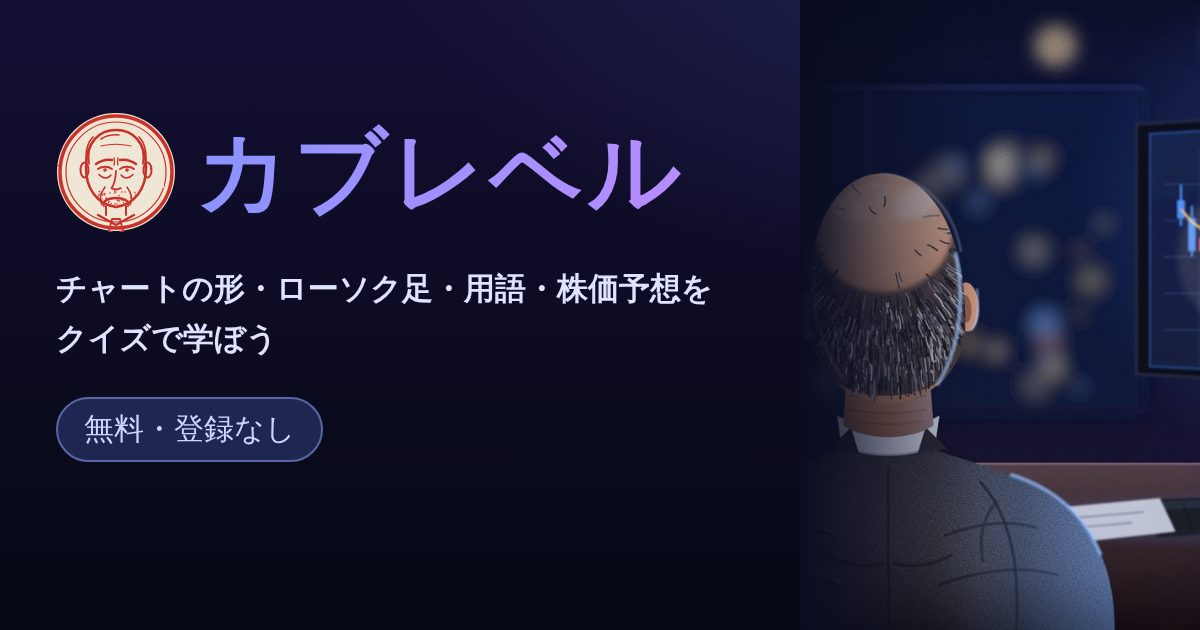
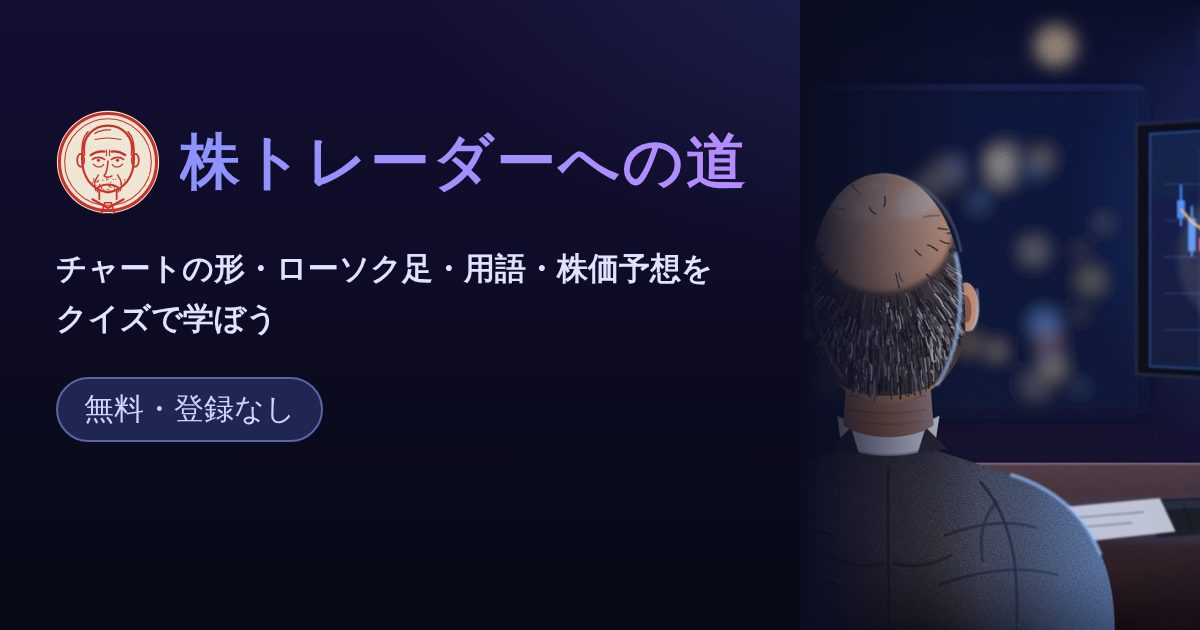
株クイズの名前を「株トレーダーへの道」に変更(タイトル・見出し・共有文・共有画像・文書) (#40)
Claude-Session: https://claude.ai/code/session_01UZZPSuHmNvhWQcyexNuVhm

Changed region(s): [[0.0308, 0.3921, 0.5858, 0.754], [0.0308, 0.181, 0.6167, 0.3921]]

diff --git a/stock-quiz/index.html b/stock-quiz/index.html
@@ -3,11 +3,11 @@
 <head>
 <meta charset="utf-8">
 <meta name="viewport" content="width=device-width, initial-scale=1">
-<title>カブレベル</title>
+<title>株トレーダーへの道</title>
 <meta name="description" content="チャートの形・ローソク足・用語・株価予想を、クイズで学べる無料の株クイズ。登録なしで、スマホからすぐ遊べるよ。">
 <meta property="og:type" content="website">
-<meta property="og:site_name" content="カブレベル">
-<meta property="og:title" content="カブレベル ― 株クイズ">
+<meta property="og:site_name" content="株トレーダーへの道">
+<meta property="og:title" content="株トレーダーへの道 ― 株クイズ">
 <meta property="og:description" content="チャートの形・ローソク足・用語・株価予想を、クイズで学ぼう。無料・登録なし。">
 <meta property="og:url" content="https://rikyui90-lab.github.io/research/stock-quiz/">
 <meta property="og:image" content="https://rikyui90-lab.github.io/research/stock-quiz/images/og.jpg">
@@ -218,13 +218,13 @@ html[data-role="host"], html[data-role="host"] body { height: 100%; overflow: hi
 <div id="host" class="host">
   <header class="host-bar">
     <button id="menu-btn" aria-expanded="false" aria-controls="nav-frame"><span aria-hidden="true">☰</span> メニュー</button>
-    <span class="host-title">カブレベル</span>
+    <span class="host-title">株トレーダーへの道</span>
   </header>
   <iframe id="nav-frame" title="メニュー(難易度・モード・問題の一覧)"></iframe>
   <div id="host-scrim" aria-hidden="true"></div>
-  <iframe id="main-frame" title="カブレベル(クイズ本体)"></iframe>
+  <iframe id="main-frame" title="株トレーダーへの道(クイズ本体)"></iframe>
 </div>
-<nav id="navroot" class="navroot" aria-label="カブレベルのメニュー"></nav>
+<nav id="navroot" class="navroot" aria-label="株トレーダーへの道のメニュー"></nav>
 <main id="app"></main>
 <footer class="disclaimer">学習用のゲームです。実際の相場では必ずこの通りに動くとは限りません。投資の助言ではありません。</footer>
 <script>
@@ -3661,14 +3661,14 @@ const SHARE_URL = 'https://rikyui90-lab.github.io/research/stock-quiz/';
 function buildShareLinks(text, url = SHARE_URL) {
   const u = encodeURIComponent(url);
   return {
-    x: `https://twitter.com/intent/tweet?text=${encodeURIComponent(`${text} #カブレベル`)}&url=${u}`,
+    x: `https://twitter.com/intent/tweet?text=${encodeURIComponent(`${text} #株トレーダーへの道`)}&url=${u}`,
     line: `https://social-plugins.line.me/lineit/share?url=${u}&text=${encodeURIComponent(text)}`,
   };
 }
 
 function formatShareText(mode, correct, total, difficulty = 'all') {
   const label = difficulty === 'all' ? MODE_LABELS[mode] : `${MODE_LABELS[mode]}・${DIFFICULTY_LABELS[difficulty]}`;
-  return `カブレベル(${label})で ${total}問中${correct}問正解!`;
+  return `株トレーダーへの道(${label})で ${total}問中${correct}問正解!`;
 }
 
 // ---- 前回出た問題を避ける ----
@@ -4312,7 +4312,7 @@ function showStart() {
     <div class="choices">${rows}
       <button class="choice" data-action="stats">成績を見る<small>モード別の正答率と、最近のラウンド</small></button>
     </div>`;
-  app.innerHTML = `<h1 class="title"><img class="stamp" src="images/stamp.svg" width="68" height="68" alt=""><span>カブレベル</span></h1>
+  app.innerHTML = `<h1 class="title"><img class="stamp" src="images/stamp.svg" width="68" height="68" alt=""><span>株トレーダーへの道</span></h1>
     <p class="lead">チャートの形、ローソク足、用語${FORECAST_PUBLIC ? '、株価予想' : ''}をクイズで学ぼう。1回 ${ROUND_SIZE} 問だよ(難易度で絞ると、少なくなることがあるよ)。</p>
     <figure class="hero"><img src="images/salaryman.jpg" width="1120" height="747" alt="疲れ切った50歳くらいのサラリーマンを後ろから見た絵。モニターの下がっていく株価チャートを見つめている"></figure>
     ${controls}`;
@@ -4711,7 +4711,7 @@ function runNav() {
   app.remove();
   const root = document.getElementById('navroot');
   if (!inFrame) {
-    root.append(el('p', { class: 'note' }, 'これは、カブレベルの左のメニューだよ。カブレベルのトップページから開いてね。'));
+    root.append(el('p', { class: 'note' }, 'これは、株トレーダーへの道の左のメニューだよ。株トレーダーへの道のトップページから開いてね。'));
     return;
   }
   root.append(el('p', { class: 'note' }, '読み込み中…'));

diff --git a/stock-quiz/tests/logic.test.js b/stock-quiz/tests/logic.test.js
@@ -1550,7 +1550,7 @@ test('保存データ: 値動き予想(outlook)の古いキーが残っていて
 });
 
 test('formatShareText: 難易度つき', () => {
-  assert.equal(L.formatShareText('pattern', 7, 10), 'カブレベル(チャートの形状)で 10問中7問正解!');
+  assert.equal(L.formatShareText('pattern', 7, 10), '株トレーダーへの道(チャートの形状)で 10問中7問正解!');
   const t = L.formatShareText('pattern', 7, 10, 'normal');
   assert.ok(t.includes('チャートの形状') && t.includes('★★') && t.includes('7') && t.includes('10'));
   assert.ok(!L.formatShareText('pattern', 3, 6, 'hard').includes('すべて'));
@@ -1561,7 +1561,7 @@ test('buildShareLinks: XとLINEの共有リンクに、文とURLが入る(記号
   const links = L.buildShareLinks(text);
   const xu = new URL(links.x);
   assert.equal(xu.origin + xu.pathname, 'https://twitter.com/intent/tweet');
-  assert.equal(xu.searchParams.get('text'), `${text} #カブレベル`);
+  assert.equal(xu.searchParams.get('text'), `${text} #株トレーダーへの道`);
   assert.equal(xu.searchParams.get('url'), L.SHARE_URL);
   const lu = new URL(links.line);
   assert.equal(lu.origin, 'https://social-plugins.line.me');
@@ -3203,7 +3203,7 @@ test('株価予想: プール・出題・難易度の絞り込み・全部まぜ
     assert.deepEqual(LF.buildDeck(mode, 11), L.buildDeck(mode, 11), mode);
   }
   assert.equal(LF.statsKey('forecast', 'hard'), 'forecast:hard');
-  assert.equal(LF.formatShareText('forecast', 1, 1, 'normal'), 'カブレベル(株価予想・★★)で 1問中1問正解!');
+  assert.equal(LF.formatShareText('forecast', 1, 1, 'normal'), '株トレーダーへの道(株価予想・★★)で 1問中1問正解!');
   assert.deepEqual(LF.updateStats(LF.defaultStats(), 'forecast:normal', 1, 1).played['forecast:normal'], { correct: 1, total: 1 });
 });
 

diff --git a/docs/superpowers/specs/2026-10-06-stock-quiz-design.md b/docs/superpowers/specs/2026-10-06-stock-quiz-design.md
@@ -55,7 +55,7 @@
    - 画面には「やり直し 問題 n / N」と表示する
    - やり直しのラウンドは、最高スコアにも正答率にも入れない。結果画面には、そのことを注記する
    - やり直しの結果でまだ間違えた問題があれば、「まだ間違えた問題をやり直す」で何度でも繰り返せる
-   - 結果画面には、「Xで結果を共有する」「LINEで結果を共有する」のリンクも出す(`buildShareLinks`。共有する文は `formatShareText` と同じで、Xには `#カブレベル` を添える。共有先のURLは `SHARE_URL`)。やり直しの結果画面には、これらも出さない(2026-10-16)
+   - 結果画面には、「Xで結果を共有する」「LINEで結果を共有する」のリンクも出す(`buildShareLinks`。共有する文は `formatShareText` と同じで、Xには `#株トレーダーへの道` を添える。共有先のURLは `SHARE_URL`)。やり直しの結果画面には、これらも出さない(2026-10-16)
    - ページの `<head>` に、説明文・OGP(`images/og.jpg`、1200×630)・Twitterカード・ファビコン(`images/stamp.svg`)・apple-touch-icon(`images/apple-touch-icon.png`)を置く。共有されたときの見た目になる。共有先のURL(`og:url`・`canonical`)は `SHARE_URL` と同じにする
    - やり直しの結果画面には「結果をコピー」を出さない。「新しいラウンドを始める」で通常のラウンドに戻る
 7. **保存**: 最高スコアとモード×難易度ごとの正解率を `localStorage` に保存する。保存のキーは、難易度が「すべて」ならモード名そのまま、それ以外は `モード名:難易度`(`pattern:easy` など。内部の難易度の値は `easy` / `normal` / `hard` / `expert` / `master`)。難易度の指定がない古い保存データは「すべて」として読む
